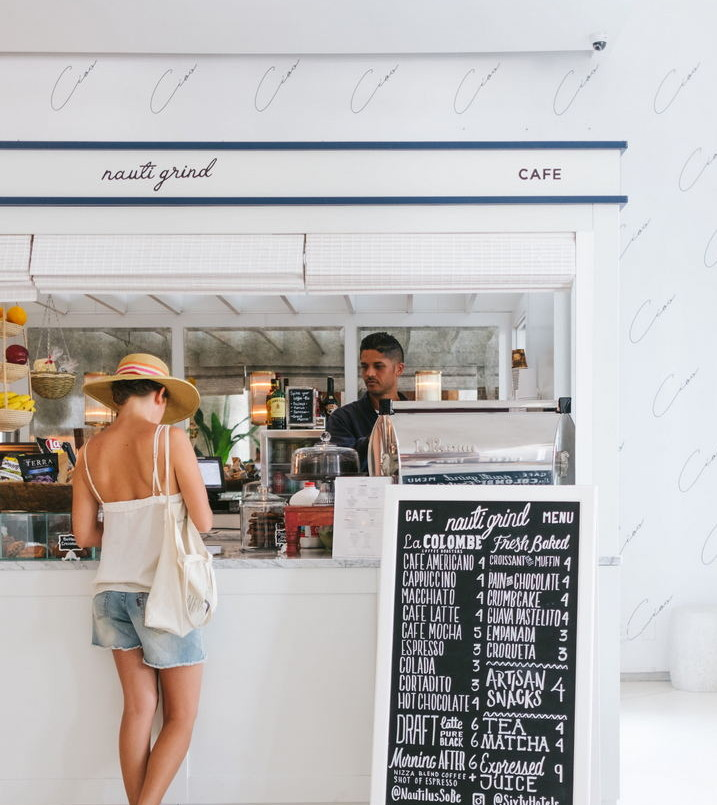
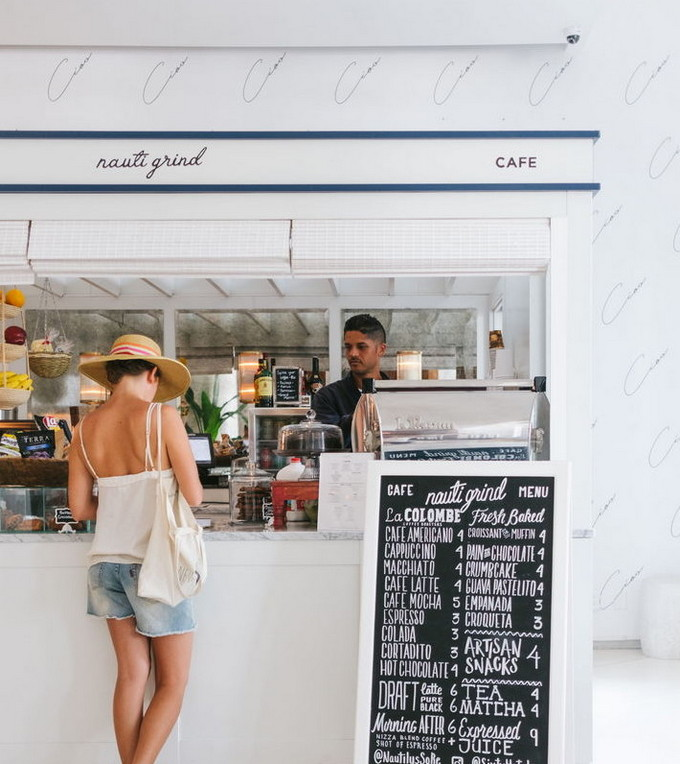
tp OnePage Modificado 3

diff --git a/style.css b/style.css
@@ -42,22 +42,42 @@ p {
 
 /* /////FOTOS////// */
 .chica {
-    width: 772px;
-    height: 1056px;
+    /* width: 772px;
+    height: 1056px; */
+
+    min-width: 400px;
+    max-width: 100%;
+
+    max-height: 110vh;
+    position: relative;
+    /* height: auto; */
+    vertical-align: bottom;
 }
 
 .mostrador {
-    width: 680px;
+    /* width: 680px;
     height: 770px;
-    position: absolute;
+    position: absolute; */
+    min-width: 400px;
+    max-width: 100%;
+    /* position: absolute; */
+
+
+
+
 
 }
 
 .cafe {
-    width: 810px;
+    /* width: 810px;
     height: 660px;
+    position: relative; */
+    min-width: 200px;
+    max-width: 100%;
     position: relative;
-    
+    margin-right: -125px;
+    float: right;
+   
 }
 
 * {
@@ -65,36 +85,48 @@ p {
     padding: 0;
 }
 
-/* ////////////////////////////////////////////////////////////////////////// */
+
 
 body {
     /* display: flex;
     justify-content: center */
 }
 
-/* /////SECCION 2///// */
+/* ////////////////////////////////////////////////SECCION 2 */
 
 .seccion2 {
     display: flex;
     justify-content: flex-start;
+ 
     /* background-color: bisque; */
 }
 
 .foto-slider {
-    width: 772px;
+display: flex;
     position: relative;
     text-decoration: none;
+    height: auto;
+       align-items: flex-end;
+
+}
+
+.invi {
+    /* background-color: darkcyan; */
+    width: auto;
+    height: 100px;
+
 }
 
 .prev,
 .next {
     cursor: pointer;
     position: absolute;
-    bottom: 5px;
+    bottom: 0;
     right: 0;
-    padding: 22.5px 67.5px;
+    padding: 22px 65px;
     font-size: 40px;
     transition: all 0.3s;
+    bottom: 0;
 }
 
 .prev:hover,
@@ -107,35 +139,38 @@ body {
 .prev {
     background-color: var(--color_terciario);
     color: var(--color_secundario);
+
 }
 
 .next {
-    right: -175px;
+    right: -170px;
     background-color: var(--color_primario);
     color: var(--color_terciario);
 }
 
 .seccion2-texto {
-    margin: 250px 0 0 5%;
-    width: auto;
+    margin: 12% 0 0 5%;
+    width: 800px;
     text-align: start;
 }
 
 .h2-s2 {
-    width: 600px;
+    max-width: 600px;
 }
 
 .p-s2 {
-    margin-top: 40px;
+    margin-top: 4%;
+    /* margin-top: 40px; */
     text-align: left;
-    width: 715px;
+    max-width: 715px;
     padding-right: 50px;
 }
 
 
 
 .fa-quote-left {
-    margin-top: 80px;
+    margin-top: 8%;
+    /* margin-top: 80px; */
     padding: .8rem;
     font-size: .8rem;
     text-align: center;
@@ -150,81 +185,86 @@ body {
     font-size: 1.45rem;
     color: var(--color_primario);
     font-weight: 500;
-    width: 650px;
+    max-width: 650px;
 }
 
-/* SECCION 3 */
+/* SECCION 3 ///////////////////////////////////////////////////////////////////////////////////*/
 
 .seccion3 {
+    margin-top: 225px;
+    display: flex;
+    margin: 225px 110px 0 110px;
+}
 
-    margin-top: 100px;
-    /* background-color: rgb(18, 81, 60); */
+
+.contenedorCafe {
     display: flex;
     flex-direction: column;
-    justify-content: center;
-
-
+    padding: 0 50px 0 0;
 }
 
-.contenedorMostrador {
-    display: flex;
-
-}
-
-.textoMostrador {
-    width: 717px;
+.cafeTexto {
+    max-width: 1026px;
     text-align: left;
     display: flex;
     flex-direction: column;
-    /* background-color: aliceblue; */
-    padding: 0 0 0 230px;
+    margin-left: 130px;
 }
 
-.obl {
+.cafeTextoP {
     margin-top: 30px;
-    font-style: italic;
-    text-align: left;
+    max-width: 700px;
     font-size: 1.5rem;
     font-weight: 400;
     line-height: 2.4rem;
-    width: 700px;
-
-
+    font-style: italic;
+    text-align: left;
 }
-.READ_SEE{
+
+.cafeTextoA {
     text-decoration: none;
+    margin-top: 50px;
     font-family: var(--font_family_subtit_par);
     font-size: 1.3rem;
     font-weight: 600;
     color: var(--color_primario);
-    margin-top: 50px;
-   
-}
-.pcafe {}
-
-.mostrador {
-    margin: 20px 0 0 15px;
-
-
 }
 
-.contenedor-cafe{
-    padding: 65px 0 0 230px;
+.cafeFoto {
+    margin-top: 65px;
+}
+
+/* COLUMNA DERECHA ////////////////////////////////////////////////////////////////////////////*/
+
+.contenedorMostrador {
     display: flex;
-  
-
+    flex-direction: column;
+    margin-top: 22px;
 }
-.textoCafe{
-    margin-top: 300px;
-    width: 524px;
+
+.mostradorTexto {
+    margin-top: 100px;
+    padding-right: 5%;
+    margin-left: 210px;
+    max-width: 310px;
     text-align: left;
-    
-  
-    /* background-color: rgb(34, 111, 179); */
-    /* padding: 0 78px 0 0; */
-
 }
 
- .pcafe{
-    width: 524px;
- }
+.mostradorTextoH3 {
+    font-size: 2.1rem;
+}
+
+.mostradorTextoP {
+    margin-top: 40px;
+    margin-bottom: 50px;
+}
+
+.mostradorTextoA {
+    text-decoration: none;
+    margin-top: 50px;
+    font-family: var(--font_family_subtit_par);
+    font-size: 1.3rem;
+    font-weight: 600;
+    color: var(--color_primario);
+}
+

diff --git a/index.html b/index.html
@@ -18,21 +18,16 @@
 <body>
     <!-- SECCION 2 -->
 
-
     <section class="seccion2">
+
         <div class="foto-slider">
-
-            <div class="fotos-chica">
-                <img src="./images/chica.jpg" alt="chica" class="chica">
-            </div>
-
+            <img src="./images/chica3.jpg" alt="chica" class="chica">
             <a class="prev" href="#">
                 <i class="fa-solid fa-arrow-left-long"></i></a>
-
             <a class="next" href="#">
                 <i class="fa-solid fa-arrow-right-long"></i></a>
-
         </div>
+
         <div class="seccion2-texto">
             <h2 class="h2-s2">Lorem ipsum dolor <br> sit amet,</h2>
             <p class="p-s2">Lorem ipsum dolor sit amet, consectetur adipisicing elit. Proin pharetrave
@@ -42,44 +37,56 @@
             <i class="fa-solid fa-quote-left"></i>
             <p class="p2-s2">Lorem ipsum dolor sit amet, consectetur adipisicing elit. Proin pharetra vestibulum
                 lacu, at rutrum lorem</p>
+            <div class="invi"></div>
         </div>
 
     </section>
+
     <!-- SECCION 3 -->
 
     <section class="seccion3">
-        <div class="contenedorMostrador">
-            <div class="textoMostrador">
-                <h2>Lorem ipsum dolor <br> sit amet,</h2>
-                <p class="h2-s2 obl">Lorem ipsum dolor sit amet, consectetur adipisicing elit.
+
+        <div class="contenedorCafe">
+            <div class="cafeTexto">
+                <h2>
+                    Lorem ipsum dolor <br> 
+                    sit amet,
+                </h2>
+                <p class="cafeTextoP">
+                    Lorem ipsum dolor sit amet, consectetur adipisicing elit.
                     Proin pharetra vestibulu, lacus, at rutrum lorem posuere id. In ut nisi
                     quam. In euismod, massa nec dignissim condimentum, libero ante dignissim eros,
                 </p>
-                <a class="READ-" href="#">READ MORE &nbsp&nbsp&nbsp&nbsp&nbsp&nbsp&nbsp&nbsp&nbsp────</a>
+                <a class="cafeTextoA" href="#">
+                    READ MORE &nbsp&nbsp&nbsp&nbsp&nbsp&nbsp&nbsp&nbsp&nbsp────
+                </a>
             </div>
-
-            <div class="fotoMostrador">
-                <img src="./images/mostrador.jpg" alt="mostrador" class="mostrador">
+            <div class="cafeFoto">
+                <img src="./images/cafe2.jpg" alt="cafe" class="cafe">
             </div>
         </div>
 
-        <div class="contenedor-cafe">
-            <div class="fotoCafe">
-                <img src="./images/cafe.jpg" alt="cafe" class="cafe">
+        <div class="contenedorMostrador">
+            <div class="mostradorFoto">
+                <img src="./images/mostrador.jpg" alt="mostrador" class="mostrador">
             </div>
-            <div class="textoCafe">
-                <h3>Images Gallary</h3>
-                <p class="h2-s2 pcafe">Lorem, ipsum dolor sit amet consectetur adipisicing elit, Ipsam, unde natus.
-                    In magnam modi maxime. Dolorem neque
+            <div class="mostradorTexto">
+                <h3 class="mostradorTextoH3">
+                    Images Gallary
+                </h3>
+                <p class="mostradorTextoP">
+                    Lorem ipsum dolor sit amet, consectetur adipiscing elit.
+                    Proin pharetra vestibulum lacus, at rutrum lorem
                 </p>
-                <a href="#">SEE ALL &nbsp&nbsp&nbsp&nbsp&nbsp&nbsp&nbsp&nbsp&nbsp────</a>
+                <a class="mostradorTextoA" href="#">
+                    SEE ALL &nbsp&nbsp&nbsp&nbsp&nbsp&nbsp&nbsp&nbsp&nbsp────
+                </a>
             </div>
         </div>
 
 
 
     </section>
-
 
 
 </body>
